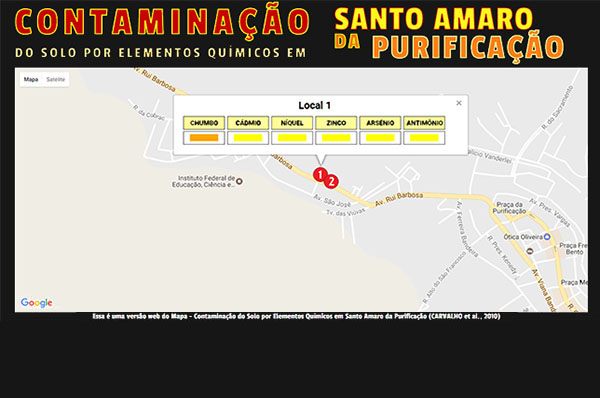
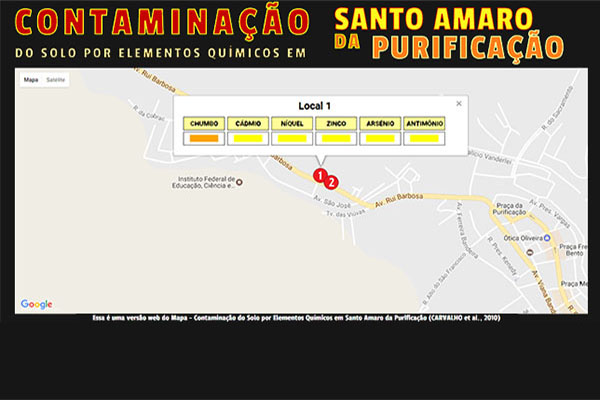
update iconpage link

diff --git a/index.html b/index.html
@@ -9,7 +9,7 @@
   <meta property="og:image" content="/iconpage2.jpg">
   <meta property="og:image:type" content="image/jpeg">
   <meta property="og:image:width" content="600">
-  <meta property="og:image:height" content="322">
+  <meta property="og:image:height" content="400">
 
   <title>Mapa digital da contaminação - Santo Amaro, BA</title>
     <style type="text/css">
